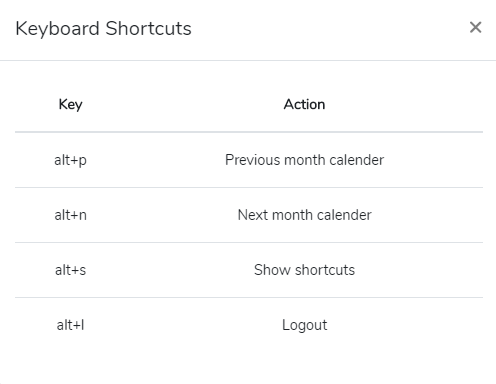
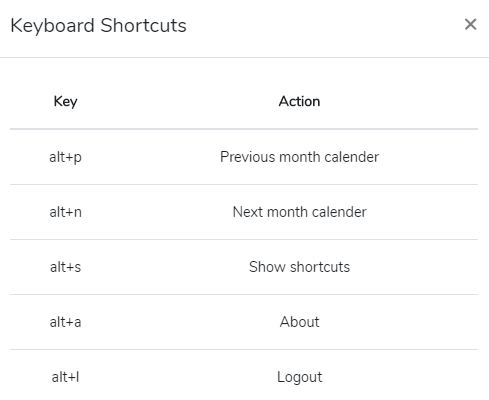
about shortcut added

diff --git a/events.js b/events.js
@@ -405,10 +405,13 @@ document.getElementById('shortcutsBtn').addEventListener('click',function(){
 // keyboard handling--------------------------------
 let modal = false;
 let shortcut = false;
+let about = false;
 document.addEventListener ("keydown", function (zEvent) {
     if (zEvent.altKey &&  zEvent.key === "w") {
         if( modal==false ) {
             $('#addEvent').modal('hide');
+            $('#aboutModal').modal('hide');
+            $('#shortcutsModal').modal('hide');
             $('#weeklyNotesModal').modal('show');  
             modal = true;  
         } else {
@@ -423,11 +426,26 @@ document.addEventListener ("keydown", function (zEvent) {
         if ( shortcut == false ){
             $('#weeklyNotesModal').modal('hide');
             $('#addEvent').modal('hide');
+            $('#aboutModal').modal('hide');
             $('#shortcutsModal').modal('show');
             shortcut = true;
         }   else {
             $('#shortcutsModal').modal('hide');
             shortcut = false;
+        }
+    } else if (zEvent.altKey &&  zEvent.key === "l") {
+        localStorage.removeItem('currentUser');
+        window.location.href = './index.html';
+    } else if (zEvent.altKey &&  zEvent.key === "a") {
+        if ( about == false ){
+            $('#weeklyNotesModal').modal('hide');
+            $('#addEvent').modal('hide');
+            $('#shortcutsModal').modal('hide');
+            $('#aboutModal').modal('show');
+            about = true;
+        }   else {
+            $('#aboutModal').modal('hide');
+            about = false;
         }
     }
 } ); 
@@ -436,7 +454,7 @@ document.addEventListener ("keydown", function (zEvent) {
 // logout -------------------------------------------
 document.getElementById('logoutBtn').addEventListener('click',()=>{
     localStorage.removeItem('currentUser');
-    window.location.href = './index.html'
+    window.location.href = './index.html';
 });
 
 document.getElementById('aboutBtn').addEventListener('click',()=>{

diff --git a/events.html b/events.html
@@ -224,6 +224,10 @@
                 <td>Show shortcuts</td>
               </tr>
               <tr>
+                  <td>alt+a</td>
+                  <td>About</td>
+                </tr>
+              <tr>
                 <td>alt+l</td>
                 <td>Logout</td>
               </tr>
@@ -266,23 +270,6 @@
   </div>
 </div>
 <!-- End-->
-
-
-<!-- Modal for login first-->
-<div class="modal fade top" id="loginFirst" tabindex="-1" role="dialog" aria-labelledby="myModalLabel"
-  aria-hidden="true" data-backdrop="true">
-  <div class="modal-dialog modal-frame modal-top modal-notify modal-info" role="document">
-    <div class="modal-content">
-      <div class="modal-body">
-        <div class="row d-flex justify-content-center align-items-center">
-          <h3 class="pt-3 pr-2">You must login first.</h3>
-        </div>
-      </div>
-    </div>
-  </div>
-</div>
-<!--End-->
-
 
 <!-- Modal for about-->
 <div class="modal fade" id="aboutModal" tabindex="-1" role="dialog" aria-labelledby="exampleModalCenterTitle"
